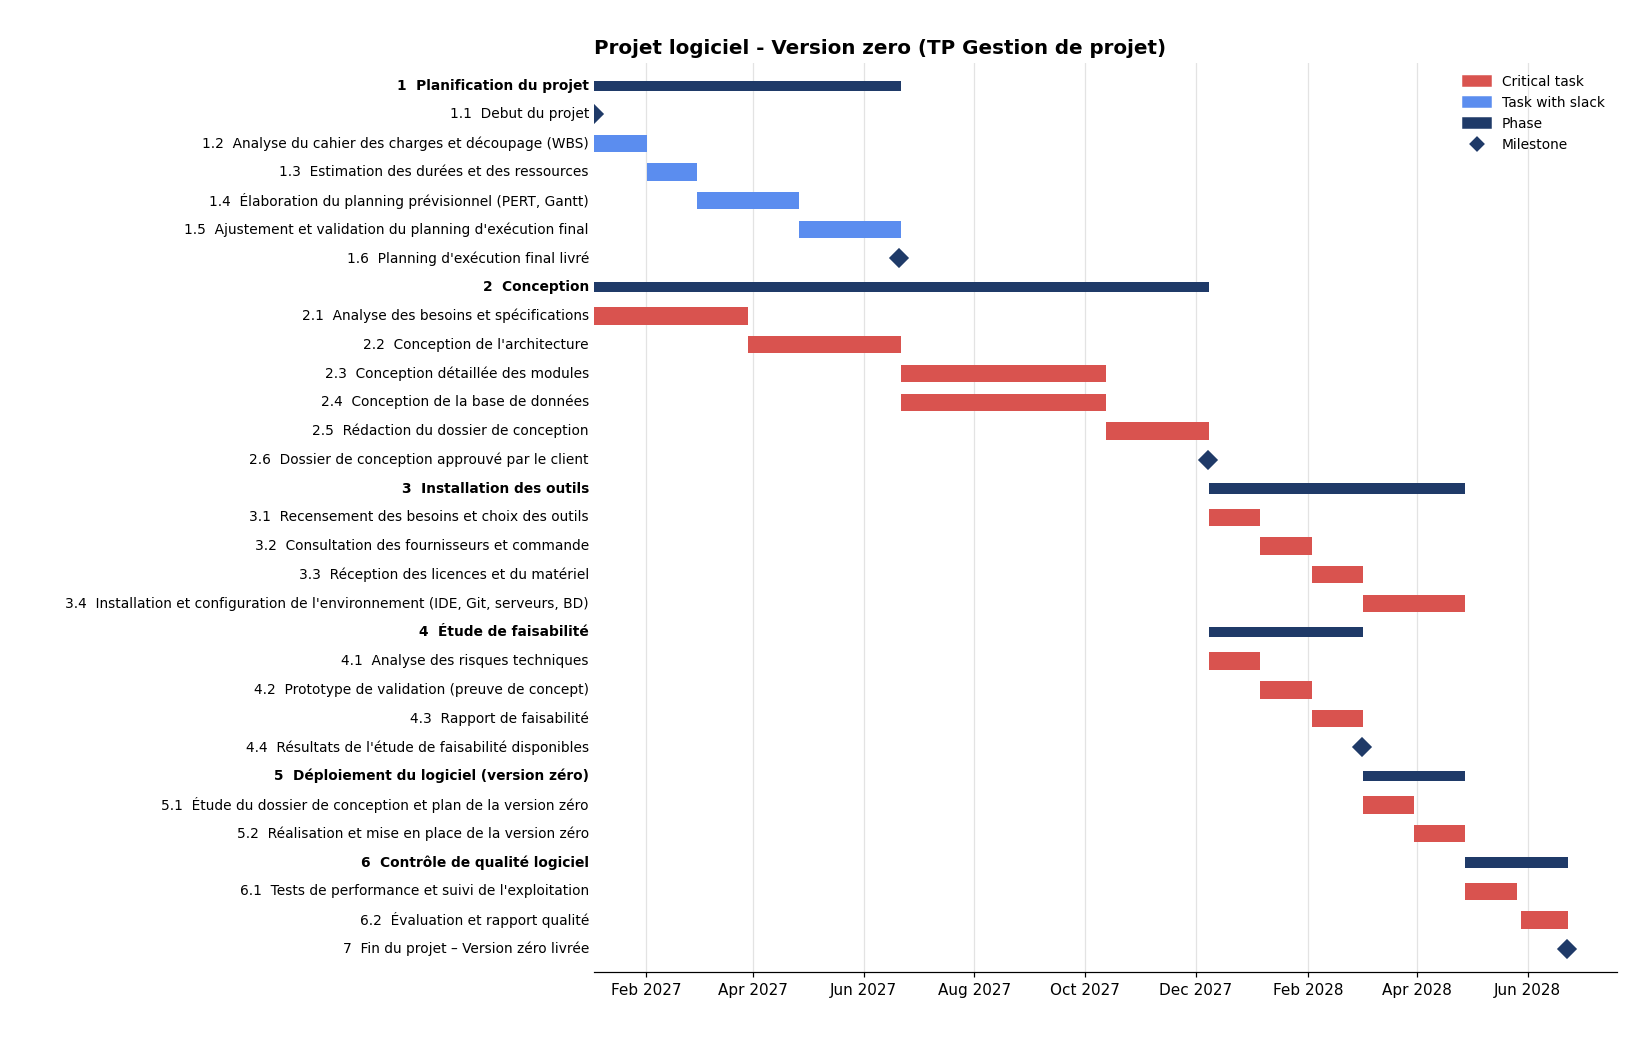
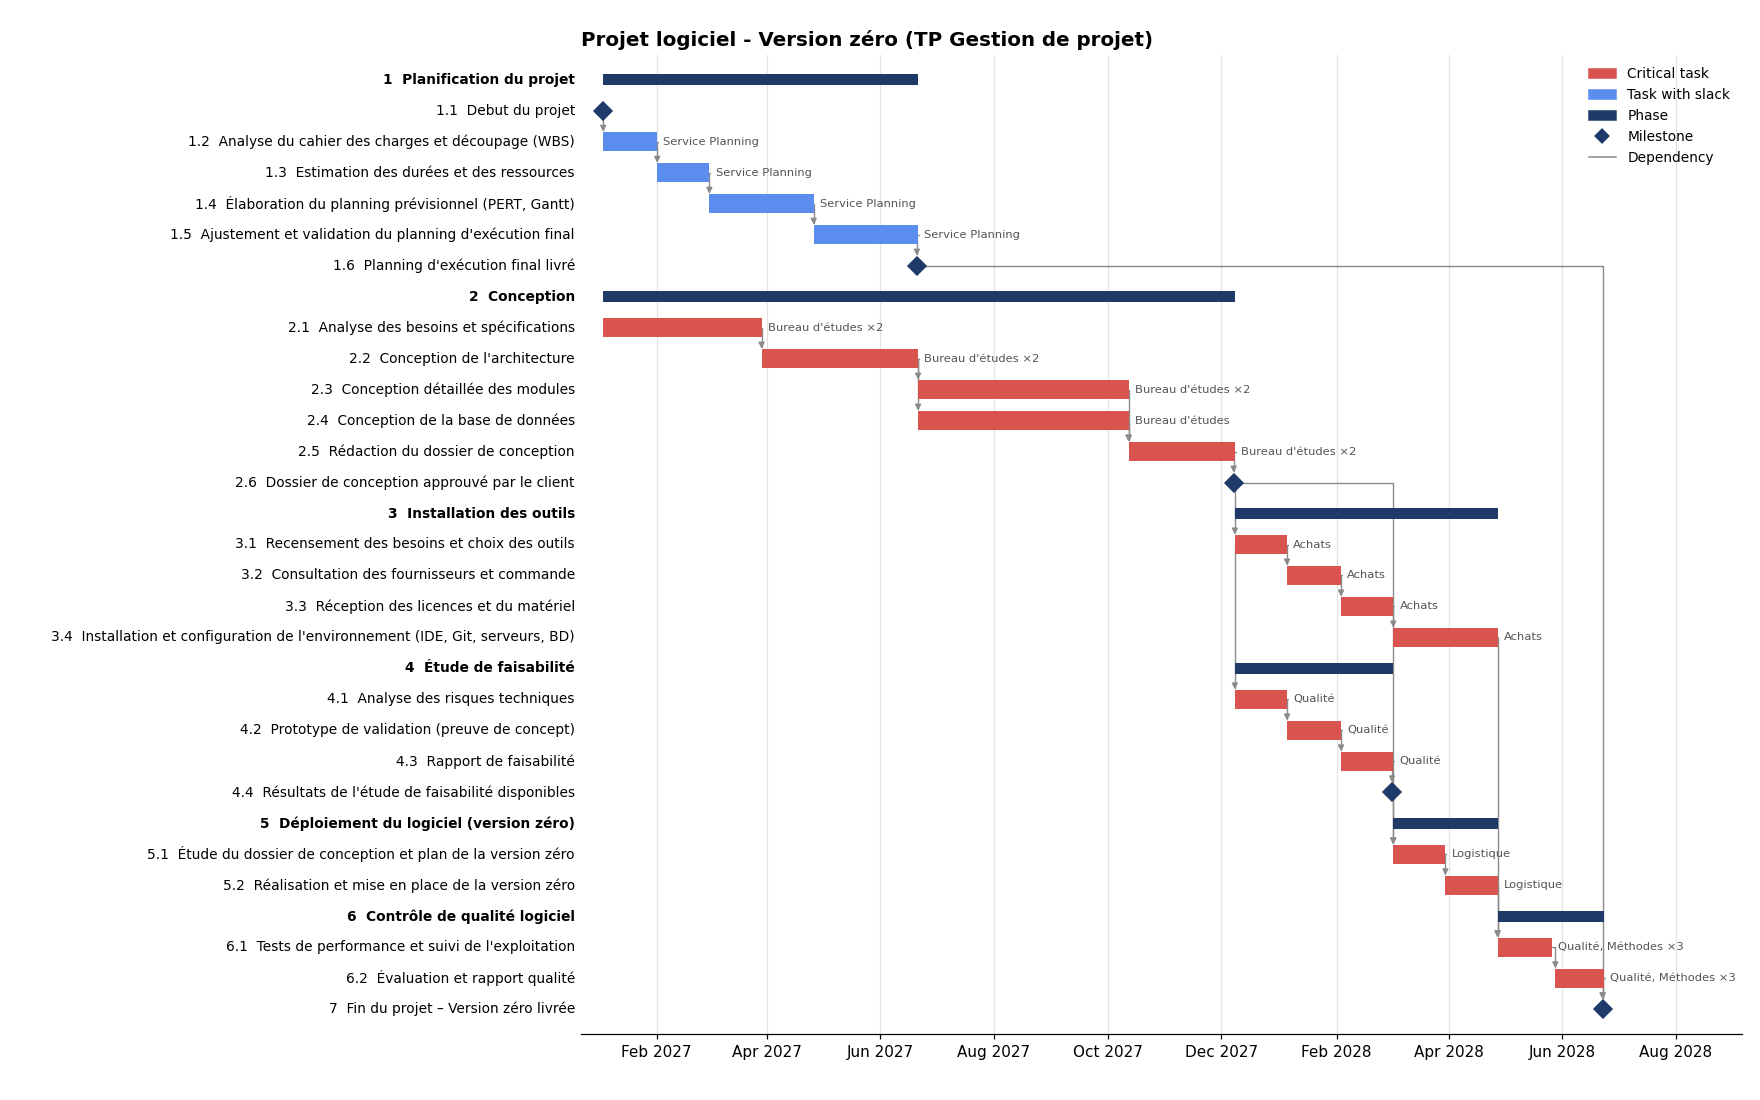
Add dependency arrows and team names to the Gantt chart

Changed region(s): [[0.0309, 0.0306, 0.9891, 0.9799], [0.8655, 0.0612, 0.9891, 0.1531], [0.8345, 0.4593, 0.8964, 0.49]]

diff --git a/README.md b/README.md
@@ -11,7 +11,7 @@ The plan itself is in French.
 
 ![Gantt chart of the project](docs/gantt.png)
 
-Red tasks are on the critical path. Blue tasks have slack. The chart was generated from the data in the `.mpp` file.
+Red tasks are on the critical path, blue tasks have slack, and grey arrows show the dependencies. Each task shows its team, with the number of people when there is more than one. The chart was generated from the data in the `.mpp` file.
 
 ## 🗂 Overview
 
